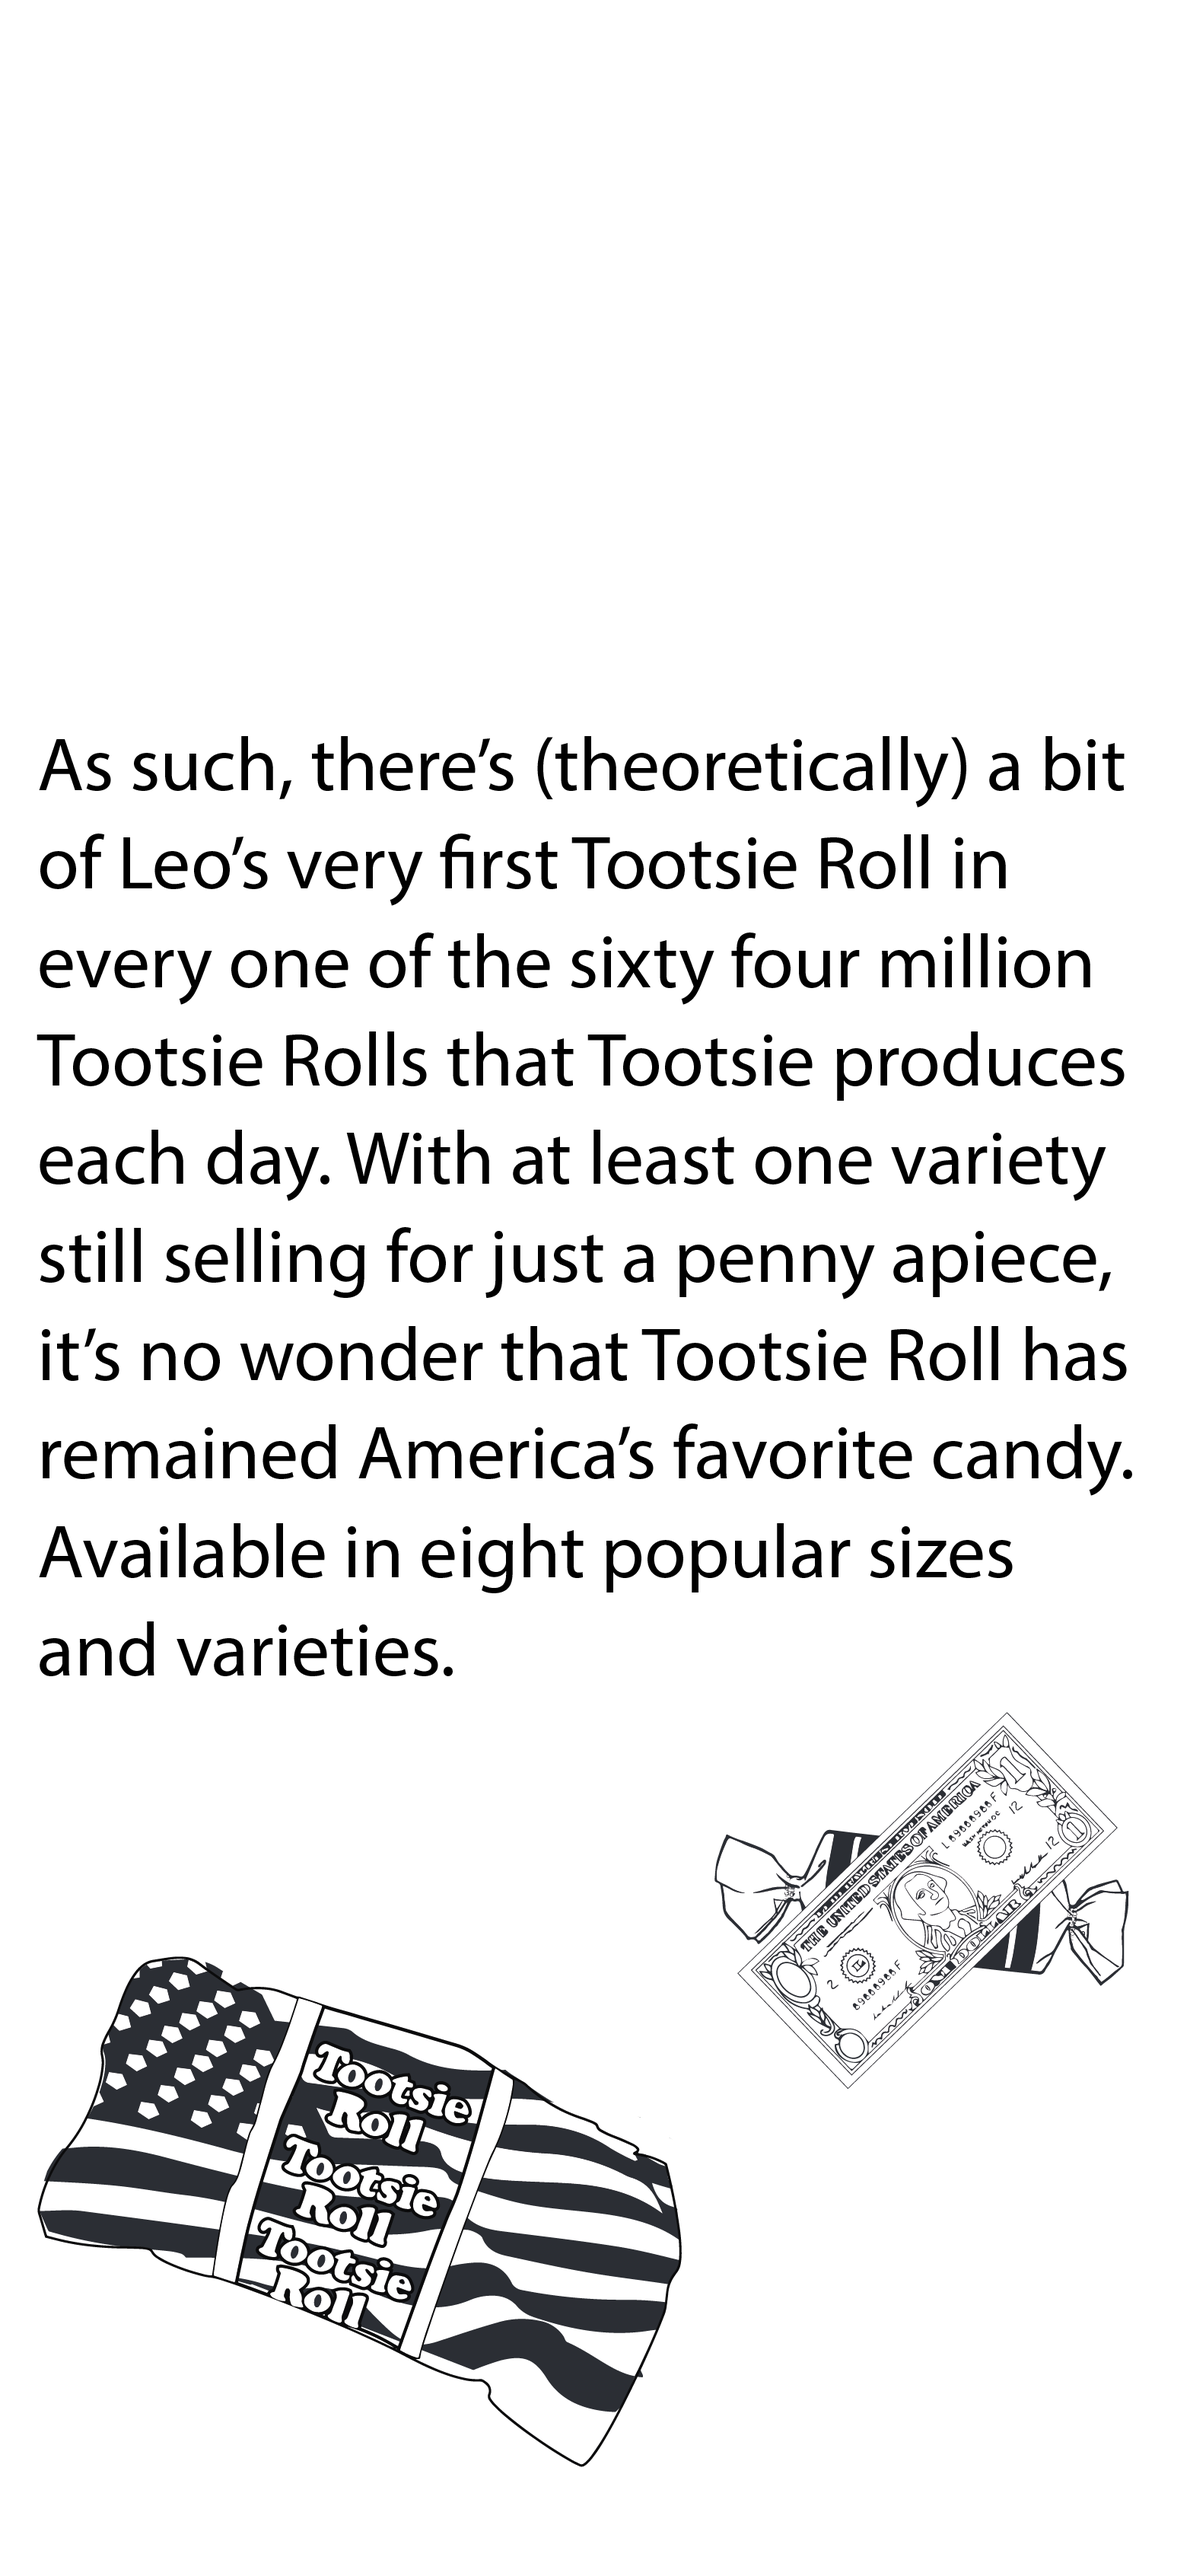
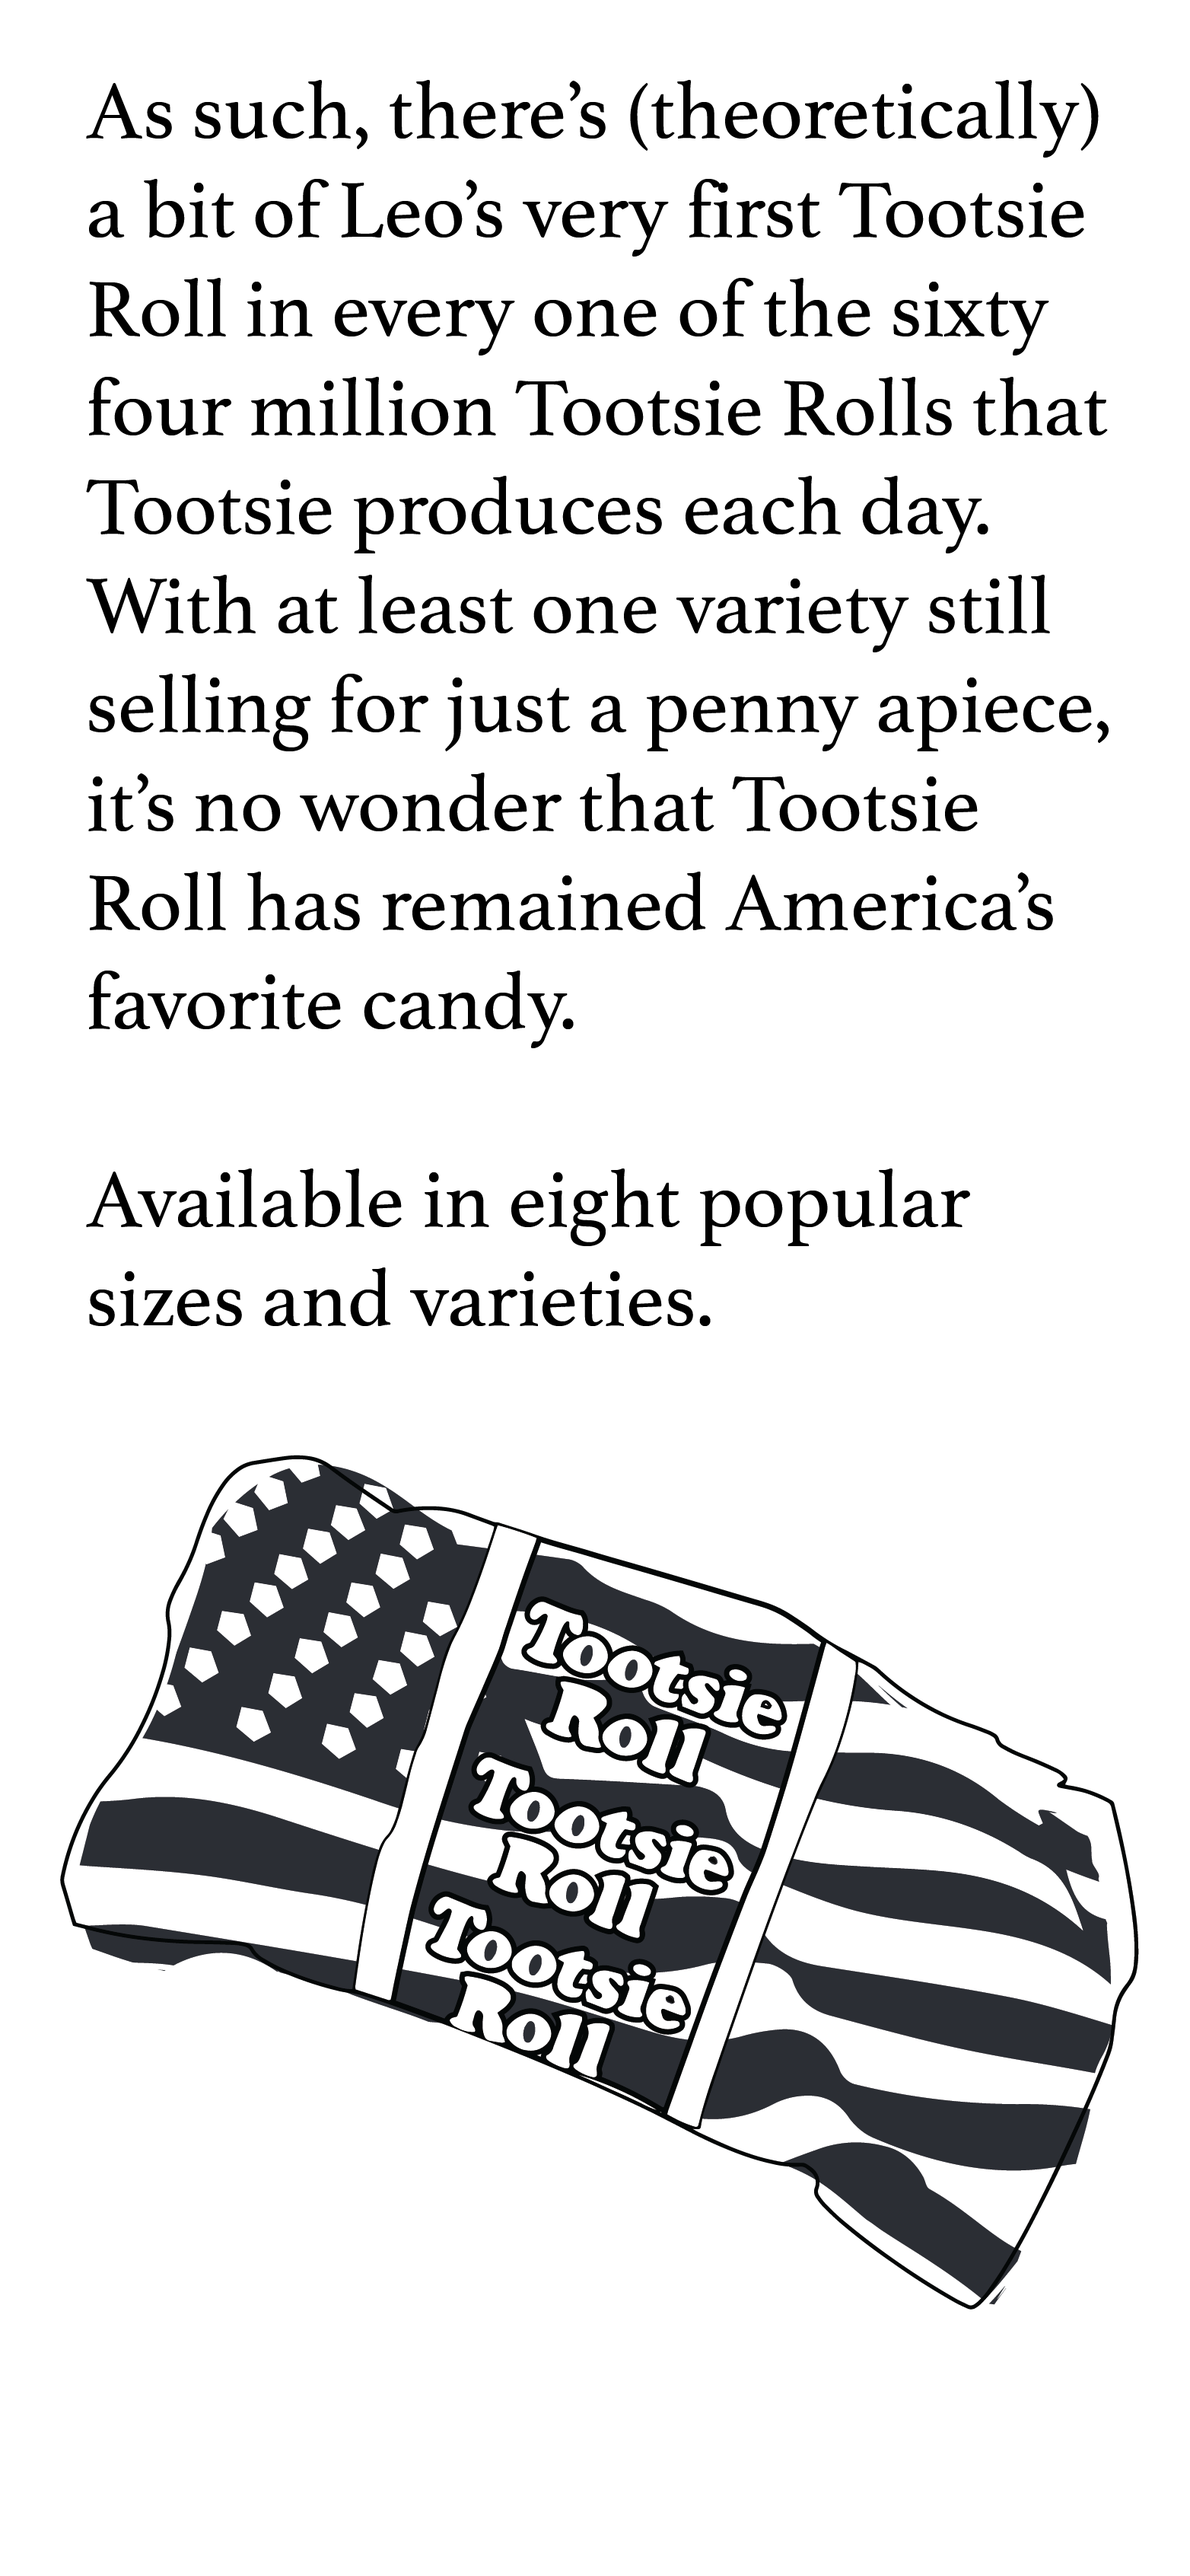
changed the asset

Changed region(s): [[0.0307, 0.031, 0.9514, 0.9619]]

diff --git a/TootsieRoll/style.css b/TootsieRoll/style.css
@@ -44,7 +44,7 @@ body {
   }
 
   #tootsierolls img {
-    width: 50px;
+    width: 100px;
     z-index: 0;
   }
 
@@ -52,7 +52,7 @@ body {
     position:relative;
     top:-80px;
     width:100%;
-    text-align: right;
+    text-align: center;
     z-index: -1;
   }
   
@@ -68,8 +68,8 @@ body {
   #tootsierolls i:before {
     position: absolute;
     content: '';
-    top: -80px;
-    right: 9px;
+    top: 0px;
+    right: 0px;
   }
   
   #tootsierolls i:after {
@@ -80,7 +80,7 @@ body {
   }
   
   #tootsierolls i:nth-of-type(n):before {
-    top:-10px; right:1px;
+    top:-10px; right:3px;
   }
   #tootsierolls i:nth-of-type(n):after {
     left: 12px; top:-10px;
@@ -95,7 +95,7 @@ body {
     top:-10px; right:1px;
   }
   #tootsierolls i:nth-of-type(3n+2):after { 
-    top:-10px; left:8px; 
+    top:5px; left:8px; 
   }
   
   #tootsierolls i:nth-of-type(n)   { -webkit-animation-delay: 5.9s;}
@@ -108,9 +108,9 @@ body {
   #tootsierolls i:nth-of-type(8n)  { -webkit-animation-delay: 1s;}
   #tootsierolls i:nth-of-type(9n)  { -webkit-animation-delay: 6.4s;}
   #tootsierolls i:nth-of-type(10n) { -webkit-animation-delay: 5.5s;}
-  #tootsierolls i:nth-of-type(11n) { -webkit-animation-delay: 1.2s;}
+  #tootsierolls i:nth-of-type(11n) { -webkit-animation-delay: 2.2s;}
   #tootsierolls i:nth-of-type(12n) { -webkit-animation-delay: 4.1s;}
-  #tootsierolls i:nth-of-type(13n) { -webkit-animation-delay: 1s;  }
+  #tootsierolls i:nth-of-type(13n) { -webkit-animation-delay: 1.4s;  }
   #tootsierolls i:nth-of-type(14n) { -webkit-animation-delay: 5.7s;}
   #tootsierolls i:nth-of-type(15n) { -webkit-animation-delay: 6s;  }
   
@@ -140,7 +140,7 @@ body {
       }    
       100% {
           -webkit-transform:
-              translate3d(0px,2500px,-320px)
+              translate3d(0px,2500px,-20px)
               rotate(-70deg);
       }
   }
@@ -148,12 +148,12 @@ body {
        0% {
           -webkit-transform:
               translate3d(0,0,0)
-              rotate(90deg);
+              rotate(-20deg);
       }   
       100% {
           -webkit-transform:
-              translate3d(0,2500,0)
-              rotate(0deg);
+              translate3d(-20px,2500px,0)
+              rotate(-70deg);
       }
   }
 

diff --git a/TootsieRoll/index.html b/TootsieRoll/index.html
@@ -44,12 +44,6 @@
           <i><img src="./image/tootsieroll.png"></i> 
         </div>
       </div>
-
-      <div class="row align-items-center">
-        <div class="col">
-          <img src="./image/assets/page1.png">
-        </div>
-      </div>
   
       <div class="row align-items-center">
         <div class="col">
@@ -73,6 +67,12 @@
           <img src="./image/assets/page5.png">
         </div>
       </div>
+
+      <div class="row align-items-center">
+          <div class="col">
+            <img src="./image/assets/page5-1.png">
+          </div>
+        </div>
       
       <div class="row align-items-center">
         <div class="col">
